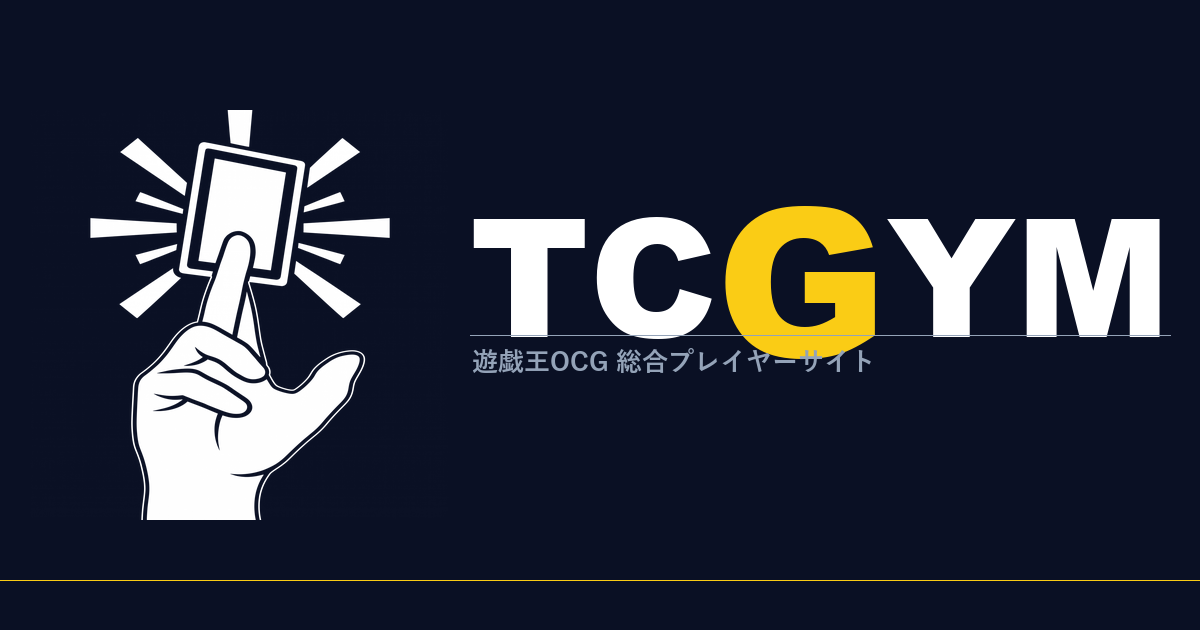
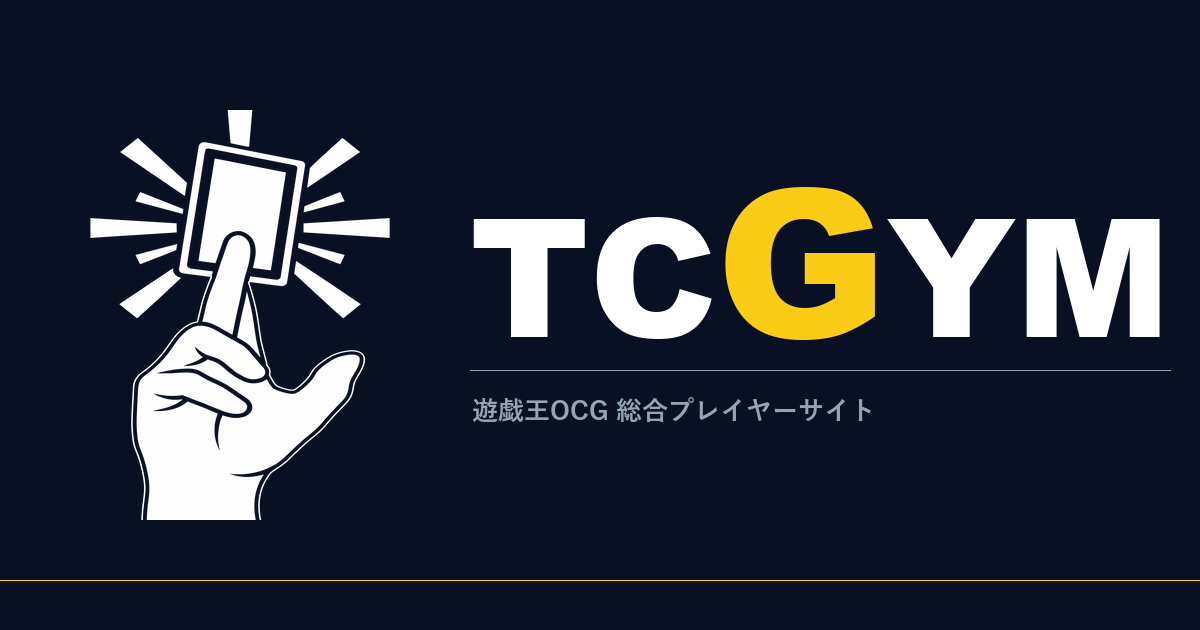
透かしをTCGYM・効果テキスト欄中央に変更／ロゴ下タグライン削除・OG画像のG重なり修正／一人回し 未発売SAMPLEイラストのぼかし設定を追加

Changed region(s): [[0.4008, 0.2714, 0.74, 0.6032], [0.37, 0.6333, 0.74, 0.6937]]

diff --git a/static/solitaire/css/sample-blur.css b/static/solitaire/css/sample-blur.css
@@ -1,0 +1,83 @@
+/* sample-blur.css — 未発売SAMPLE画像のイラスト部分を薄くぼかす（一人回し・任意設定）
+ *
+ * 対象: wrapper に .sample-art が付いたカード（{kind:'image', source:'official_sample'} 由来）のみ。
+ *       プロキシ・発売済み画像には .sample-art を付けない。
+ * on/off: ルート(body)の data-sample-blur 属性（無ければぼかさない）。既定オフ。
+ * 強さ  : --sample-blur-radius（既定 2px。盤面カード約94px幅で実確認。「雰囲気は分かるが細部は見えない」程度）
+ *
+ * イラスト範囲（実SAMPLE画像 480x700 で実測。通常/リンク/魔法罠とペンデュラムを両方覆う共通範囲）:
+ *   x 8%〜92% ・ y 17.5%〜64%
+ *   通常枠のイラストは概ね x11〜89% / y17.5〜65%、ペンデュラム枠は x7.5〜94.5% / y17.5〜63%
+ *   （下端はペンデュラム効果欄の上端63%）。ペンデュラム判別情報がDOMに無いため共通範囲で近似する。
+ *
+ * 擬似要素の衝突回避:
+ *   裏面(.is-set)は components.css の .tier-item-wrapper.is-set::after（z-index 3）が使うため、
+ *   :not(.is-set) で除外する。透かし(self-watermark.css)の ::before は SAMPLE には付かない。
+ *   clip-path で範囲を切り、要素自体は wrapper 全体に敷く（守備表示の90度回転を .tier-item と同じ
+ *   transform で追従させるため）。
+ */
+
+:root {
+  --sample-blur-radius: 2px;
+}
+
+.sample-art {
+  position: relative;
+}
+
+[data-sample-blur] .sample-art:not(.is-set)::after {
+  content: "";
+  position: absolute;
+  inset: 0;
+  z-index: 2;                 /* img(1) より上・裏面オーバーレイ(3) より下 */
+  pointer-events: none;       /* クリック・ドラッグを阻害しない */
+  clip-path: inset(17.5% 8% 36% 8%);
+  -webkit-backdrop-filter: blur(var(--sample-blur-radius));
+  backdrop-filter: blur(var(--sample-blur-radius));
+  transition: transform 0.3s ease-in-out;
+}
+
+/* 守備表示: 画像(.tier-item)と同じ90度回転に追従 */
+[data-sample-blur] .tier-item-wrapper.is-defense.sample-art:not(.is-set)::after {
+  transform: rotate(90deg);
+  transform-origin: center center;
+}
+
+/* カード情報パネルの拡大画像: img に擬似要素は付けられないので JS が .cip-img-wrap で包む */
+.cip-img-wrap {
+  position: relative;
+  display: inline-block;
+  flex: 0 0 auto;
+  line-height: 0;
+  border-radius: 4px;
+}
+.cip-img-wrap > .cip-img {
+  display: block;
+}
+
+/* 設定UI（右パネル「表示」・スマホ⋯メニュー共通のチェックボックス） */
+.sol-sample-blur-toggle {
+  display: flex;
+  align-items: center;
+  gap: 8px;
+  cursor: pointer;
+  font-size: 0.78rem;
+  line-height: 1.4;
+  color: var(--main-color);
+}
+/* components.css の `p, span, li { color:#333 }` が暗色パネルで読めなくなるのを打ち消す */
+.sol-sample-blur-toggle span {
+  color: inherit;
+}
+.sol-sample-blur-toggle input {
+  width: 16px;
+  height: 16px;
+  margin: 0;
+  flex-shrink: 0;
+  accent-color: var(--accent);
+  cursor: pointer;
+}
+/* スマホ⋯メニュー内は他のメニュー項目と同じ文字サイズに揃える */
+.sol-mobile-menu-item.sol-sample-blur-toggle {
+  font-size: 0.92rem;
+}

diff --git a/static/solitaire/js/ui/sample-blur.js b/static/solitaire/js/ui/sample-blur.js
@@ -1,0 +1,76 @@
+/**
+ * sample-blur.js
+ * 未発売SAMPLE画像のイラスト部分を薄くぼかす設定（一人回し）。
+ *
+ * - 設定は localStorage（tcgym_sol_sample_blur）に保存。既定オフ。
+ * - オン時は body に data-sample-blur 属性を付ける（実際のぼかしは sample-blur.css）。
+ * - 盤面カードの .sample-art クラスは各生成箇所（card-manager 等）が付ける。
+ * - カード情報パネルの拡大画像（.cip-img）は img に擬似要素を付けられないため、
+ *   表示中の画像が盤面の .sample-art カードと同じ URL のとき .cip-img-wrap.sample-art で包む。
+ */
+
+const STORAGE_KEY = 'tcgym_sol_sample_blur';
+
+function loadSetting() {
+  try {
+    return localStorage.getItem(STORAGE_KEY) === '1';
+  } catch {
+    return false;
+  }
+}
+
+function saveSetting(on) {
+  try {
+    localStorage.setItem(STORAGE_KEY, on ? '1' : '0');
+  } catch {
+    // プライベートモード等で保存できなくても、そのセッション内の切替は有効
+  }
+}
+
+function applySetting(on) {
+  document.body.toggleAttribute('data-sample-blur', on);
+  document.querySelectorAll('input[data-sample-blur-toggle]').forEach((cb) => {
+    cb.checked = on;
+  });
+}
+
+/** 盤面にある .sample-art カードと同じ画像URLか（カード情報パネルの判定用） */
+function isSampleSrc(src) {
+  if (!src) return false;
+  for (const img of document.querySelectorAll('.sample-art > img.tier-item')) {
+    if (img.src === src) return true;
+  }
+  return false;
+}
+
+/** パネル内の .cip-img がSAMPLE画像なら .cip-img-wrap.sample-art で包む */
+function wrapSampleCipImages(root) {
+  root.querySelectorAll('img.cip-img').forEach((img) => {
+    if (img.parentElement?.classList.contains('cip-img-wrap')) return;
+    if (!isSampleSrc(img.src)) return;
+    const wrap = document.createElement('span');
+    wrap.className = 'cip-img-wrap sample-art';
+    img.replaceWith(wrap);
+    wrap.appendChild(img);
+  });
+}
+
+function initCipObserver() {
+  ['cardInfoPanel', 'solMobileCipBody'].forEach((id) => {
+    const panel = document.getElementById(id);
+    if (!panel) return;
+    // パネル描画は innerHTML 置換。置換直後（描画前のマイクロタスク）に包む
+    new MutationObserver(() => wrapSampleCipImages(panel)).observe(panel, { childList: true });
+  });
+}
+
+export function initSampleBlur() {
+  applySetting(loadSetting());
+  document.querySelectorAll('input[data-sample-blur-toggle]').forEach((cb) => {
+    cb.addEventListener('change', () => {
+      saveSetting(cb.checked);
+      applySetting(cb.checked);
+    });
+  });
+  initCipObserver();
+}

diff --git a/static/css/self-watermark.css b/static/css/self-watermark.css
@@ -1,7 +1,10 @@
 /* self-watermark.css — 自サイト透かし（cosmetic mitigation）
  *
- * 発売済みクリーン画像にのみ低不透明度の「カード相場」透かしを重ね、
- * 「明確に非公式」を示す。Konami の "SAMPLE" は模倣しない。
+ * 発売済みクリーン画像にのみ低不透明度の「TCGYM」透かしを、カード下部の効果テキスト欄の
+ * 中央に横書きで重ね、「明確に非公式」を示す。Konami の "SAMPLE" は模倣しない。
+ *
+ * テキスト欄の範囲（実カード画像 480x700 で実測。通常/効果/リンク/魔法罠/ペンデュラムで共通）:
+ *   x 7%〜93%（幅86%）・y 75%〜94%（高さ19%）。ペンデュラム枠も下段の効果欄は同位置。
  *
  * 適用範囲（描画側で .wm-released クラスを付与した要素のみ）:
  *   - 検索 hero 画像（#heroImgWrap = .card-hero-img）
@@ -17,28 +20,33 @@
 
 .wm-released {
   position: relative;
+  /* cqw（コンテナ幅基準の単位）で文字サイズをカード幅に連動させる。
+     .tier-item-wrapper は proxy-card.css で宣言済み。それ以外の対象にも宣言する */
+  container-type: inline-size;
 }
 
 [data-self-wm] .wm-released::before {
-  content: "カード相場";
+  content: "TCGYM";
   position: absolute;
-  inset: 0;
+  /* 効果テキスト欄: 上75% / 右7% / 下6%（=94%まで） / 左7% */
+  inset: 75% 7% 6% 7%;
   z-index: 2;                 /* img(1) より上・裏面オーバーレイ(3) より下 */
   display: flex;
   align-items: center;
   justify-content: center;
-  transform: rotate(-22deg);
-  transform-origin: center center;
   font-weight: 700;
-  font-size: clamp(9px, 22%, 22px);
-  letter-spacing: 0.04em;
+  /* 欄の高さ=カード幅の約27.7%。文字高15cqw・幅約48cqwで欄内に収まる。非対応環境は固定px */
+  font-size: 9px;
+  font-size: 15cqw;
+  line-height: 1;
+  letter-spacing: 0.08em;
   color: #fff;
   opacity: var(--self-watermark-opacity, 0.12);
   text-shadow: 0 1px 2px rgba(0, 0, 0, 0.5);
   white-space: nowrap;
+  overflow: hidden;
   pointer-events: none;       /* クリック・ドラッグを阻害しない */
   user-select: none;
-  border-radius: inherit;
 }
 
 /* 裏面（セット）カードには透かしを出さない */

diff --git a/templates/solitaire.html b/templates/solitaire.html
@@ -33,6 +33,7 @@
 <link href="https://fonts.googleapis.com/css2?family=Bungee&display=swap" rel="stylesheet">
 <link rel="stylesheet" href="{{ static_url('solitaire/css/main.css') }}">
 <link rel="stylesheet" href="{{ static_url('css/self-watermark.css') }}">
+<link rel="stylesheet" href="{{ static_url('solitaire/css/sample-blur.css') }}">
 <link rel="stylesheet" href="{{ static_url('solitaire/css/site-theme.css') }}">
 <!-- import map: solitaire/js・shared 配下の相対importを内容ハッシュ付きURLへ写像する
      （静的な相対specifierはstatic_url()を通せないため、ここでブラウザ解決を上書きする）。
@@ -388,6 +389,10 @@
             <button type="button" class="sol-mobile-menu-item" data-menu-action="load">盤面ロード</button>
             <button type="button" class="sol-mobile-menu-item" data-menu-action="reset">リセット&amp;5ドロー</button>
             <button type="button" class="sol-mobile-menu-item" data-menu-action="clearall">すべて消去（デッキ・盤面・記録）</button>
+            <label class="sol-mobile-menu-item sol-sample-blur-toggle">
+              <input type="checkbox" id="solMobileSampleBlurToggle" data-sample-blur-toggle>
+              <span>未発売カードのイラストをぼかす</span>
+            </label>
             <button type="button" class="sol-mobile-menu-item" data-menu-action="coin">コイントス</button>
             <button type="button" class="sol-mobile-menu-item" data-menu-action="dice">ダイスロール</button>
             <button type="button" class="sol-mobile-menu-item" data-menu-action="opptray">
@@ -534,6 +539,14 @@
           <button id="randomButton" class="action-btn draw-btn">1ドロー</button>
           <button id="resetButton"  class="action-btn reset-btn">リセット&amp;5ドロー</button>
         </div>
+      </div>
+
+      <div class="sol-right-section">
+        <p class="sol-right-heading">表示</p>
+        <label class="sol-sample-blur-toggle">
+          <input type="checkbox" id="solSampleBlurToggle" data-sample-blur-toggle>
+          <span>未発売カードのイラストをぼかす</span>
+        </label>
       </div>
 
       <div class="sol-right-section">

diff --git a/templates/index.html b/templates/index.html
@@ -160,7 +160,6 @@ header{padding:24px 0 8px;text-align:center;position:relative}
 .brand-name{display:inline-flex;align-items:flex-end;font-family:'Bungee',sans-serif;font-size:46px;color:#fff;line-height:1;letter-spacing:1px;}
 .brand-beta{font-size:13px;color:#94a3b8;font-family:sans-serif;font-weight:600;letter-spacing:0;align-self:flex-start;margin-top:4px;margin-left:2px;}
 .brand-g{color:#facc15;font-size:1.28em;}
-.brand-tagline{display:block;font-size:10px;color:#94a3b8;letter-spacing:3px;font-weight:700;text-align:left;margin-top:4px;}
 /* C-3a: 「一人回し」をモードタブから外し、ヘッダー右上の常設リンクへ（高さを増やさない） */
 /* G-8: font-sizeはremではなくpx固定にする（.brand-nameはpx固定のため、header-solo-link側だけ
    remでルートフォント拡大に追従すると相対位置がずれてβバッジと衝突する。両方pxに揃えて
@@ -572,7 +571,6 @@ table.res tr.sold-out .col-price{text-decoration:line-through;text-decoration-co
   .brand-header-icon{height:36px}
   .brand-name{font-size:22px}
   .brand-beta{font-size:9px;margin-top:2px}
-  .brand-tagline{font-size:8px;letter-spacing:2px;margin-top:2px}
   .header-solo-link{top:10px;right:12px;font-size:11px;padding:4px 9px}
 
   /* 検索 */
@@ -770,7 +768,6 @@ window.RARITY_CONFIG = {{ rarity_config_json | safe }};
           </picture>
           <div>
             <span style="display:inline-flex;align-items:flex-start"><span class="brand-name">TC<span class="brand-g">G</span>YM</span><span class="brand-beta">β</span></span>
-            <span class="brand-tagline">遊戯王OCG プレイヤーサポート</span>
           </div>
         </div>
       </a>

diff --git a/static/solitaire/js/components/card-manager.js b/static/solitaire/js/components/card-manager.js
@@ -103,6 +103,8 @@ function createCardElement(srcOrDisplay, isEx = false) {
 
   // 発売済みクリーン画像にのみ自サイト透かしを重ねる（SAMPLE画像・プロキシには付けない）
   let isReleasedImage = false;
+  // 未発売SAMPLE画像（イラストぼかし設定の対象。sample-blur.css）
+  let isSampleImage = false;
 
   if (typeof srcOrDisplay === 'string') {
     // 従来の文字列（URL）引数: 完全後方互換。文字列は発売済みクリーン画像
@@ -120,6 +122,7 @@ function createCardElement(srcOrDisplay, isEx = false) {
     img.setAttribute('draggable', 'true');
     cardEl = img;
     isReleasedImage = srcOrDisplay.source !== 'official_sample';
+    isSampleImage = !isReleasedImage;
   } else if (srcOrDisplay && srcOrDisplay.kind === 'proxy') {
     // {kind:'proxy', proxy: {...}} オブジェクト → プロキシ要素を生成
     const proxyEl = createProxyCardElement(srcOrDisplay.proxy || {});
@@ -138,6 +141,9 @@ function createCardElement(srcOrDisplay, isEx = false) {
   // 発売済みクリーン画像の wrapper に透かしクラスを付与（CSS の data-self-wm で出し分け）
   if (isReleasedImage) {
     wrapper.classList.add('wm-released');
+  }
+  if (isSampleImage) {
+    wrapper.classList.add('sample-art');
   }
 
   // ID はすべての種類で wrapper の先頭トークンを使う

diff --git a/static/css/price-layout.css b/static/css/price-layout.css
@@ -7,7 +7,6 @@ body.price-redesign{background:#101626;background-image:none;color:#eff3fb}
 .price-redesign .brand-name{font-size:28px}
 .price-redesign .brand-g{color:#f3ce46}
 .price-redesign .brand-beta{font-size:10px}
-.price-redesign .brand-tagline{font-size:8px;letter-spacing:1px;color:#a8b4c9}
 .price-redesign .mode-tabs{display:flex;align-items:center;flex:1;align-self:stretch;max-width:none;gap:18px;margin:0;justify-content:flex-start;flex-wrap:nowrap}
 .price-redesign .mode-tab,.price-redesign .header-solo-link{display:inline-flex;align-items:center;justify-content:center;position:static;flex:0 0 auto;min-width:0;min-height:50px;margin:0;padding:8px 0 18px;border:0;border-bottom:2px solid transparent;border-radius:0;background:none;box-shadow:none;color:#a8b4c9;font:700 12px var(--font);white-space:nowrap;text-decoration:none}
 .price-redesign .mode-tab:hover,.price-redesign .header-solo-link:hover{color:#eff3fb;background:none;border-color:transparent}

diff --git a/static/solitaire/js/main.js b/static/solitaire/js/main.js
@@ -19,6 +19,7 @@ import { registerCardImage, registerCardIsEx } from './services/replay-service.j
 import { initTokenGenerator } from './ui/token-generator.js';
 import { initRandomTools } from './ui/random-tools.js';
 import { initCardInfoPanel } from './ui/card-info-panel.js';
+import { initSampleBlur } from './ui/sample-blur.js';
 import { saveSessionResume, loadSessionResume } from './services/save-load-service.js';
 import { initOpponentTray, updateCipWidth } from './ui/opponent-tray.js';
 import { initFeedbackModal } from './ui/feedback-modal.js';
@@ -299,6 +300,9 @@ async function initializeApp() {
 
   // カード詳細パネル初期化
   initCardInfoPanel();
+
+  // 未発売SAMPLE画像のぼかし設定（localStorage復元・トグル配線）
+  initSampleBlur();
 
   // 相手の想定妨害ミニ盤面を初期化
   initOpponentTray();

diff --git a/static/solitaire/js/ui/mobile-ui.js b/static/solitaire/js/ui/mobile-ui.js
@@ -678,6 +678,8 @@ function _buildDeckCell(wrapper) {
   // self-watermark.css の [data-self-wm] .wm-released::before は position:relative の
   // 祖先に依存するが .sol-mobile-deck-cell は既に position:relative なのでそのまま効く。
   if (wrapper.classList.contains('wm-released')) cell.classList.add('wm-released');
+  // 未発売SAMPLE画像のイラストぼかし（sample-blur.css）。.sol-mobile-deck-cell は position:relative 済み
+  if (wrapper.classList.contains('sample-art')) cell.classList.add('sample-art');
 
   if (src) {
     const thumb = document.createElement('img');

diff --git a/static/solitaire/js/services/save-load-service.js b/static/solitaire/js/services/save-load-service.js
@@ -255,6 +255,7 @@ async function restoreCardsToSlot(slot, cards) {
         cardEl = img;
         // 発売済みクリーン画像にのみ透かし（SAMPLE画像は除外）
         if (displayResult.source !== 'official_sample') wrapper.classList.add('wm-released');
+        else wrapper.classList.add('sample-art'); // 未発売SAMPLE（イラストぼかし設定の対象）
       } else if (displayResult.kind === 'proxy' && displayResult.proxy) {
         // 未発売プロキシ（まだ発売されていない）
         const proxyEl = createProxyCardElement(displayResult.proxy);

diff --git a/static/solitaire/js/services/replay-service.js b/static/solitaire/js/services/replay-service.js
@@ -531,6 +531,7 @@ async function _createReplayCardElements() {
         cardEl = img;
         // 発売済みクリーン画像にのみ透かし（SAMPLE画像は除外）
         if (displayResult.source !== 'official_sample') wrapper.classList.add('wm-released');
+        else wrapper.classList.add('sample-art'); // 未発売SAMPLE（イラストぼかし設定の対象）
       } else if (displayResult.kind === 'proxy' && displayResult.proxy) {
         // 未発売プロキシ
         const proxyEl = createProxyCardElement(displayResult.proxy);

diff --git a/tools/build_icons.py b/tools/build_icons.py
@@ -84,16 +84,30 @@ def build_og_image():
     f_g   = load_font(['ariblk.ttf', 'arialbd.ttf'], 205)
     f_sub = load_font(['YuGothB.ttc', 'msgothic.ttc', 'meiryo.ttc'], 26)
 
-    tx, ty = 470, 130
+    tx = 470
     tc_w = int(draw.textlength('TC', font=f_xl))
     g_w  = int(draw.textlength('G',  font=f_g))
     ym_w = int(draw.textlength('YM', font=f_xl))
-    draw.text((tx,              ty + 25), 'TC', fill='white',   font=f_xl)
-    draw.text((tx + tc_w,       ty),      'G',  fill='#facc15', font=f_g)
-    draw.text((tx + tc_w + g_w, ty + 25), 'YM', fill='white',   font=f_xl)
-    draw.line([(tx, ty + 205), (min(W - 30, tx + tc_w + g_w + ym_w + 20), ty + 205)],
+
+    # 実際の描画範囲（textbbox）から縦配置を計算する。基準はベースライン（anchor='ls'）。
+    # 大きな「G」(205px) は下端がベースライン付近まで伸びるため、固定オフセットで下線・小見出しを
+    # 置くと重なる（以前の不具合）。G の bbox 下端・小見出しの bbox 上端から間隔を取る。
+    SUB_TEXT = '遊戯王OCG 総合プレイヤーサイト'
+    g_box   = draw.textbbox((0, 0), 'G', font=f_g, anchor='ls')   # (l, t, r, b) ベースライン原点
+    sub_box = draw.textbbox((0, 0), SUB_TEXT, font=f_sub, anchor='ls')
+    GAP_LINE = 30   # G下端 → 下線
+    GAP_SUB  = 26   # 下線 → 小見出し上端
+    block_h = (g_box[3] - g_box[1]) + GAP_LINE + 1 + GAP_SUB + (sub_box[3] - sub_box[1])
+    top = (H - block_h) // 2 - 10          # アイコン(縦中心 約315)に合わせ、ブロックを上下中央寄せ
+    base = top - g_box[1]                  # G 上端が top に来るベースライン
+    draw.text((tx,              base), 'TC', fill='white',   font=f_xl, anchor='ls')
+    draw.text((tx + tc_w,       base), 'G',  fill='#facc15', font=f_g,  anchor='ls')
+    draw.text((tx + tc_w + g_w, base), 'YM', fill='white',   font=f_xl, anchor='ls')
+    line_y = base + g_box[3] + GAP_LINE
+    draw.line([(tx, line_y), (min(W - 30, tx + tc_w + g_w + ym_w + 20), line_y)],
               fill=(148, 163, 184, 100), width=1)
-    draw.text((tx + 2, ty + 218), '遊戯王OCG 総合プレイヤーサイト', fill='#94a3b8', font=f_sub)
+    sub_base = line_y + 1 + GAP_SUB - sub_box[1]
+    draw.text((tx + 2, sub_base), SUB_TEXT, fill='#94a3b8', font=f_sub, anchor='ls')
     draw.line([(0, 580), (W, 580)], fill=(250, 204, 21, 25), width=1)
 
     img.save(str(STATIC / 'og-image.png'))
